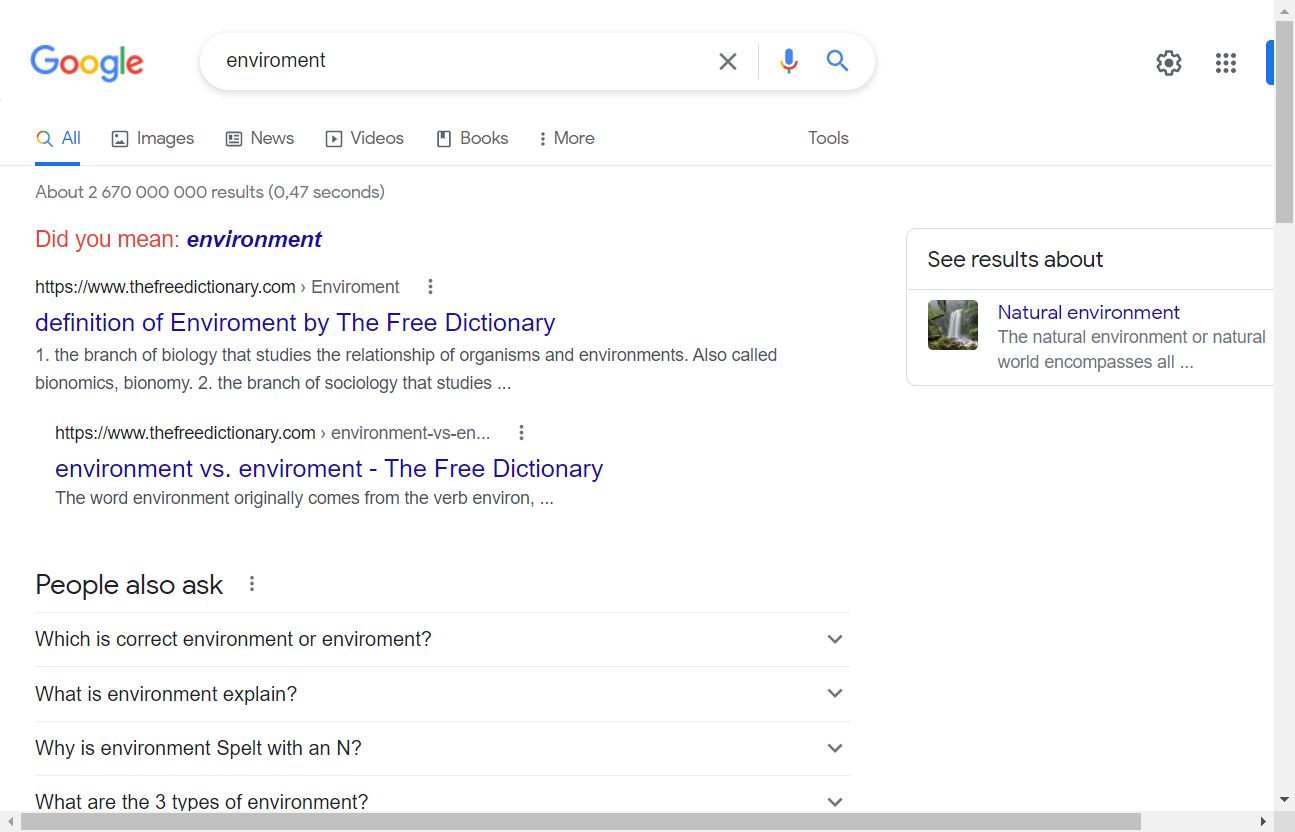
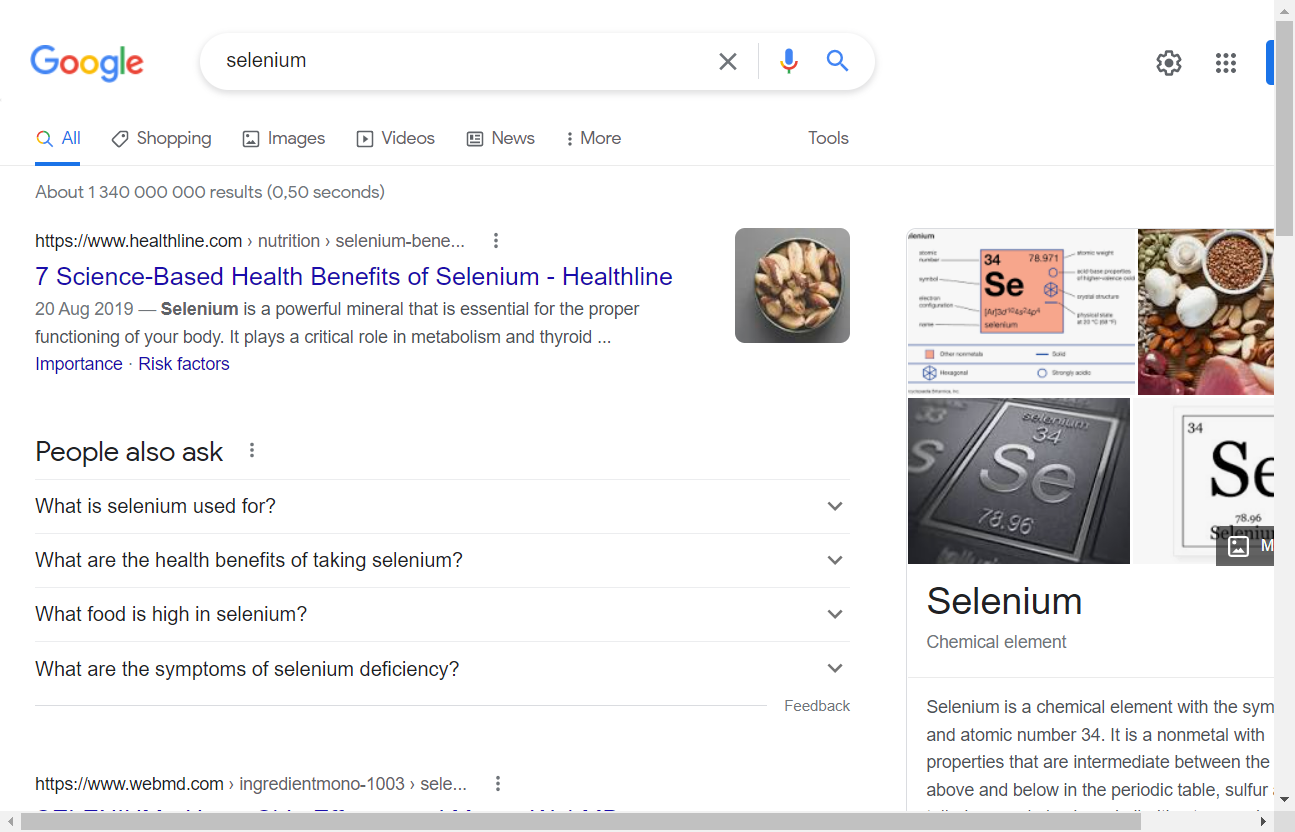
RemoteWebDriverConfig and Selenium grid commit

diff --git a/src/test/java/com/example/SpringSelenium/googletest/Google2Test.java b/src/test/java/com/example/SpringSelenium/googletest/Google2Test.java
@@ -3,16 +3,14 @@ package com.example.SpringSelenium.googletest;
 import com.example.SpringSelenium.SpringBaseTestNGTest;
 import com.example.SpringSelenium.page.google.GooglePage;
 import com.example.SpringSelenium.util.ScreenShotUtil;
-import com.google.common.util.concurrent.Uninterruptibles;
 import org.springframework.beans.factory.annotation.Autowired;
 import org.springframework.context.annotation.Lazy;
 import org.testng.Assert;
 import org.testng.annotations.Test;
 
 import java.io.IOException;
-import java.util.concurrent.TimeUnit;
 
-public class GoogleTest extends SpringBaseTestNGTest {
+public class Google2Test extends SpringBaseTestNGTest {
     @Autowired
     private GooglePage googlePage;
 
@@ -24,10 +22,8 @@ public class GoogleTest extends SpringBaseTestNGTest {
     public void googleTest() throws IOException {
         this.googlePage.goTo();
         Assert.assertTrue(this.googlePage.isAt());
-
-        Uninterruptibles.sleepUninterruptibly(3, TimeUnit.SECONDS);
-
-        this.googlePage.getSearchComponent().search("enviroment ");
+        //Uninterruptibles.sleepUninterruptibly(3, TimeUnit.SECONDS);
+        this.googlePage.getSearchComponent().search("selenium");
         Assert.assertTrue(this.googlePage.getSearchResult().isAt());
         Assert.assertTrue(this.googlePage.getSearchResult().getCount() > 2);
         this.screenShotUtil.takeScreenShot();

diff --git a/src/test/java/com/example/SpringSelenium/googletest/Google1Test.java b/src/test/java/com/example/SpringSelenium/googletest/Google1Test.java
@@ -1,0 +1,32 @@
+package com.example.SpringSelenium.googletest;
+
+import com.example.SpringSelenium.SpringBaseTestNGTest;
+import com.example.SpringSelenium.page.google.GooglePage;
+import com.example.SpringSelenium.util.ScreenShotUtil;
+import org.springframework.beans.factory.annotation.Autowired;
+import org.springframework.context.annotation.Lazy;
+import org.testng.Assert;
+import org.testng.annotations.Test;
+
+import java.io.IOException;
+
+public class Google1Test extends SpringBaseTestNGTest {
+
+    @Autowired
+    private GooglePage googlePage;
+
+    @Lazy
+    @Autowired
+    private ScreenShotUtil screenShotUtil;
+
+    @Test
+    public void googleTest() throws IOException {
+        this.googlePage.goTo();
+        Assert.assertTrue(this.googlePage.isAt());
+        //Uninterruptibles.sleepUninterruptibly(3, TimeUnit.SECONDS);
+        this.googlePage.getSearchComponent().search("spring boot");
+        Assert.assertTrue(this.googlePage.getSearchResult().isAt());
+        Assert.assertTrue(this.googlePage.getSearchResult().getCount() > 2);
+        this.screenShotUtil.takeScreenShot();
+    }
+}

diff --git a/src/main/java/com/example/SpringSelenium/config/WebDriverWaitConfig.java b/src/main/java/com/example/SpringSelenium/config/WebDriverWaitConfig.java
@@ -7,6 +7,7 @@ import org.springframework.beans.factory.annotation.Value;
 import org.springframework.context.annotation.Bean;
 import org.springframework.context.annotation.Configuration;
 import org.springframework.context.annotation.Lazy;
+import org.springframework.context.annotation.Scope;
 
 @Lazy
 @Configuration
@@ -15,6 +16,7 @@ public class WebDriverWaitConfig {
     private int timeout;
 
     @Bean
+//    @Scope("prototype")
     public WebDriverWait webDriverWait(WebDriver driver) {
         WebDriverManager.chromedriver().setup();
         return new WebDriverWait(driver, this.timeout);

diff --git a/src/main/java/com/example/SpringSelenium/page/google/SearchResult.java b/src/main/java/com/example/SpringSelenium/page/google/SearchResult.java
@@ -12,11 +12,7 @@ public class SearchResult extends Base {
     @FindBy(css = "div.jtfYYd")
     private List<WebElement> results;
 
-    public int
-
-
-
-    getCount() {
+    public int getCount() {
         return this.results.size();
     }
 
